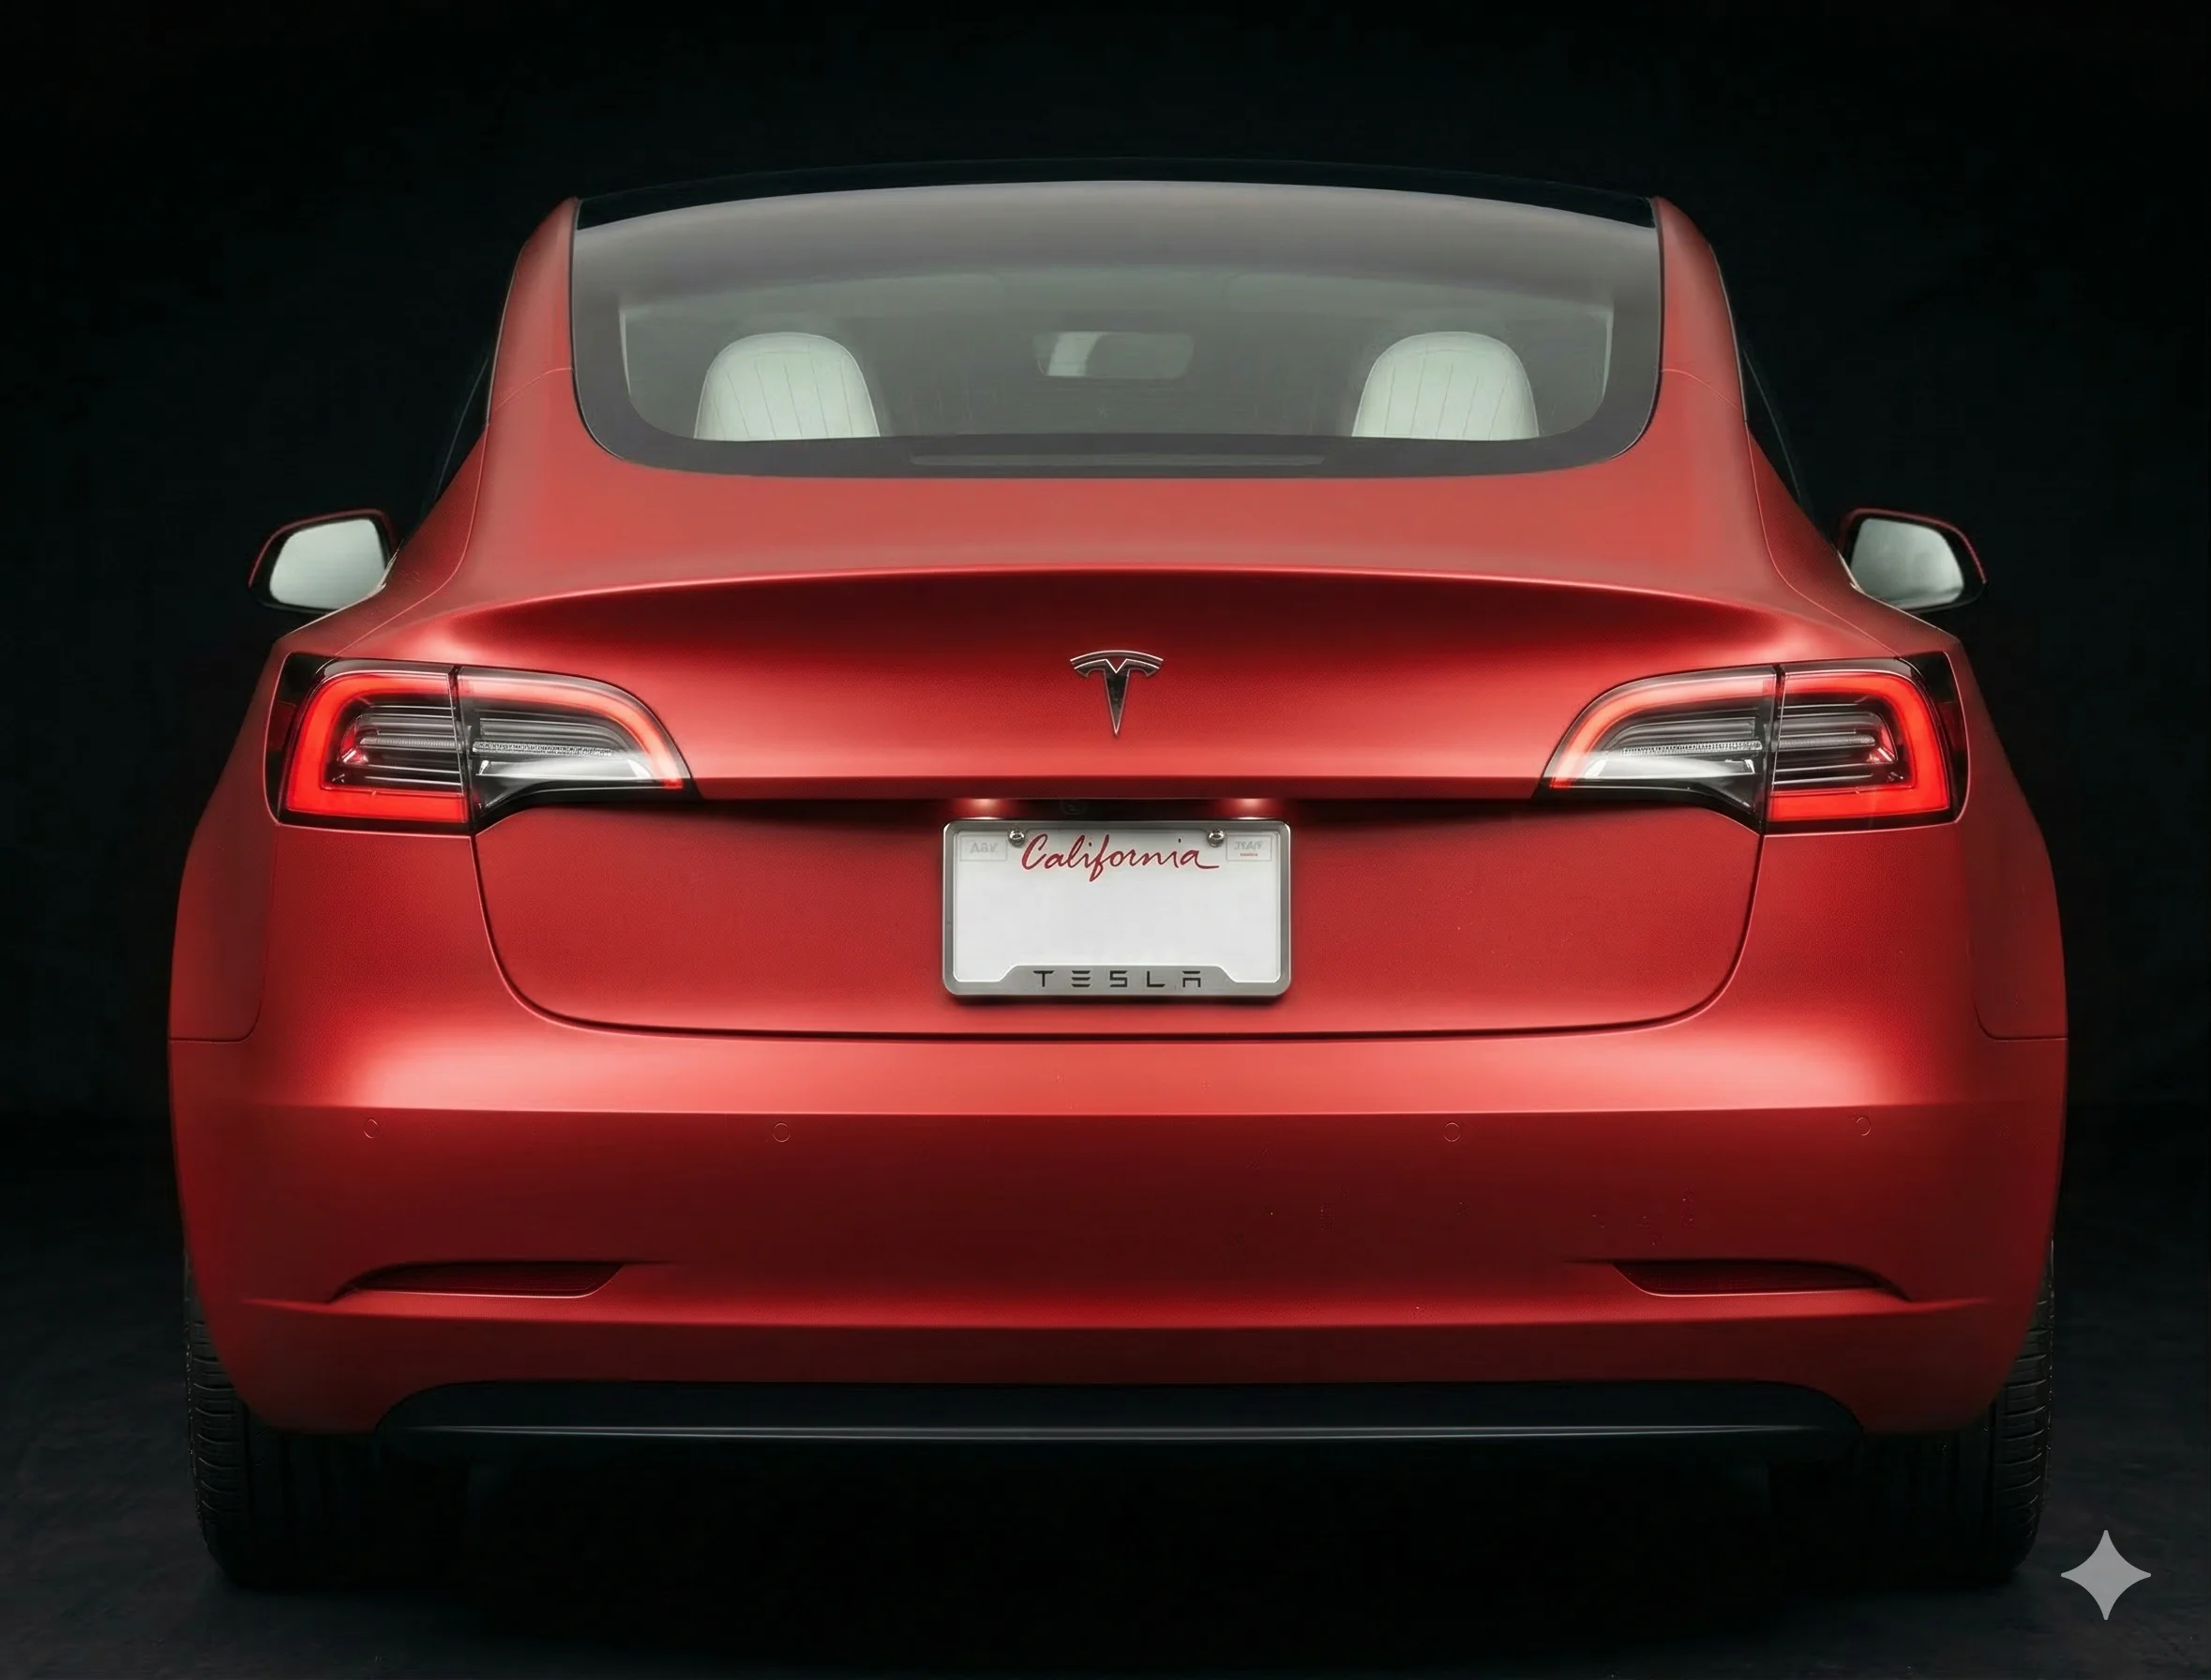
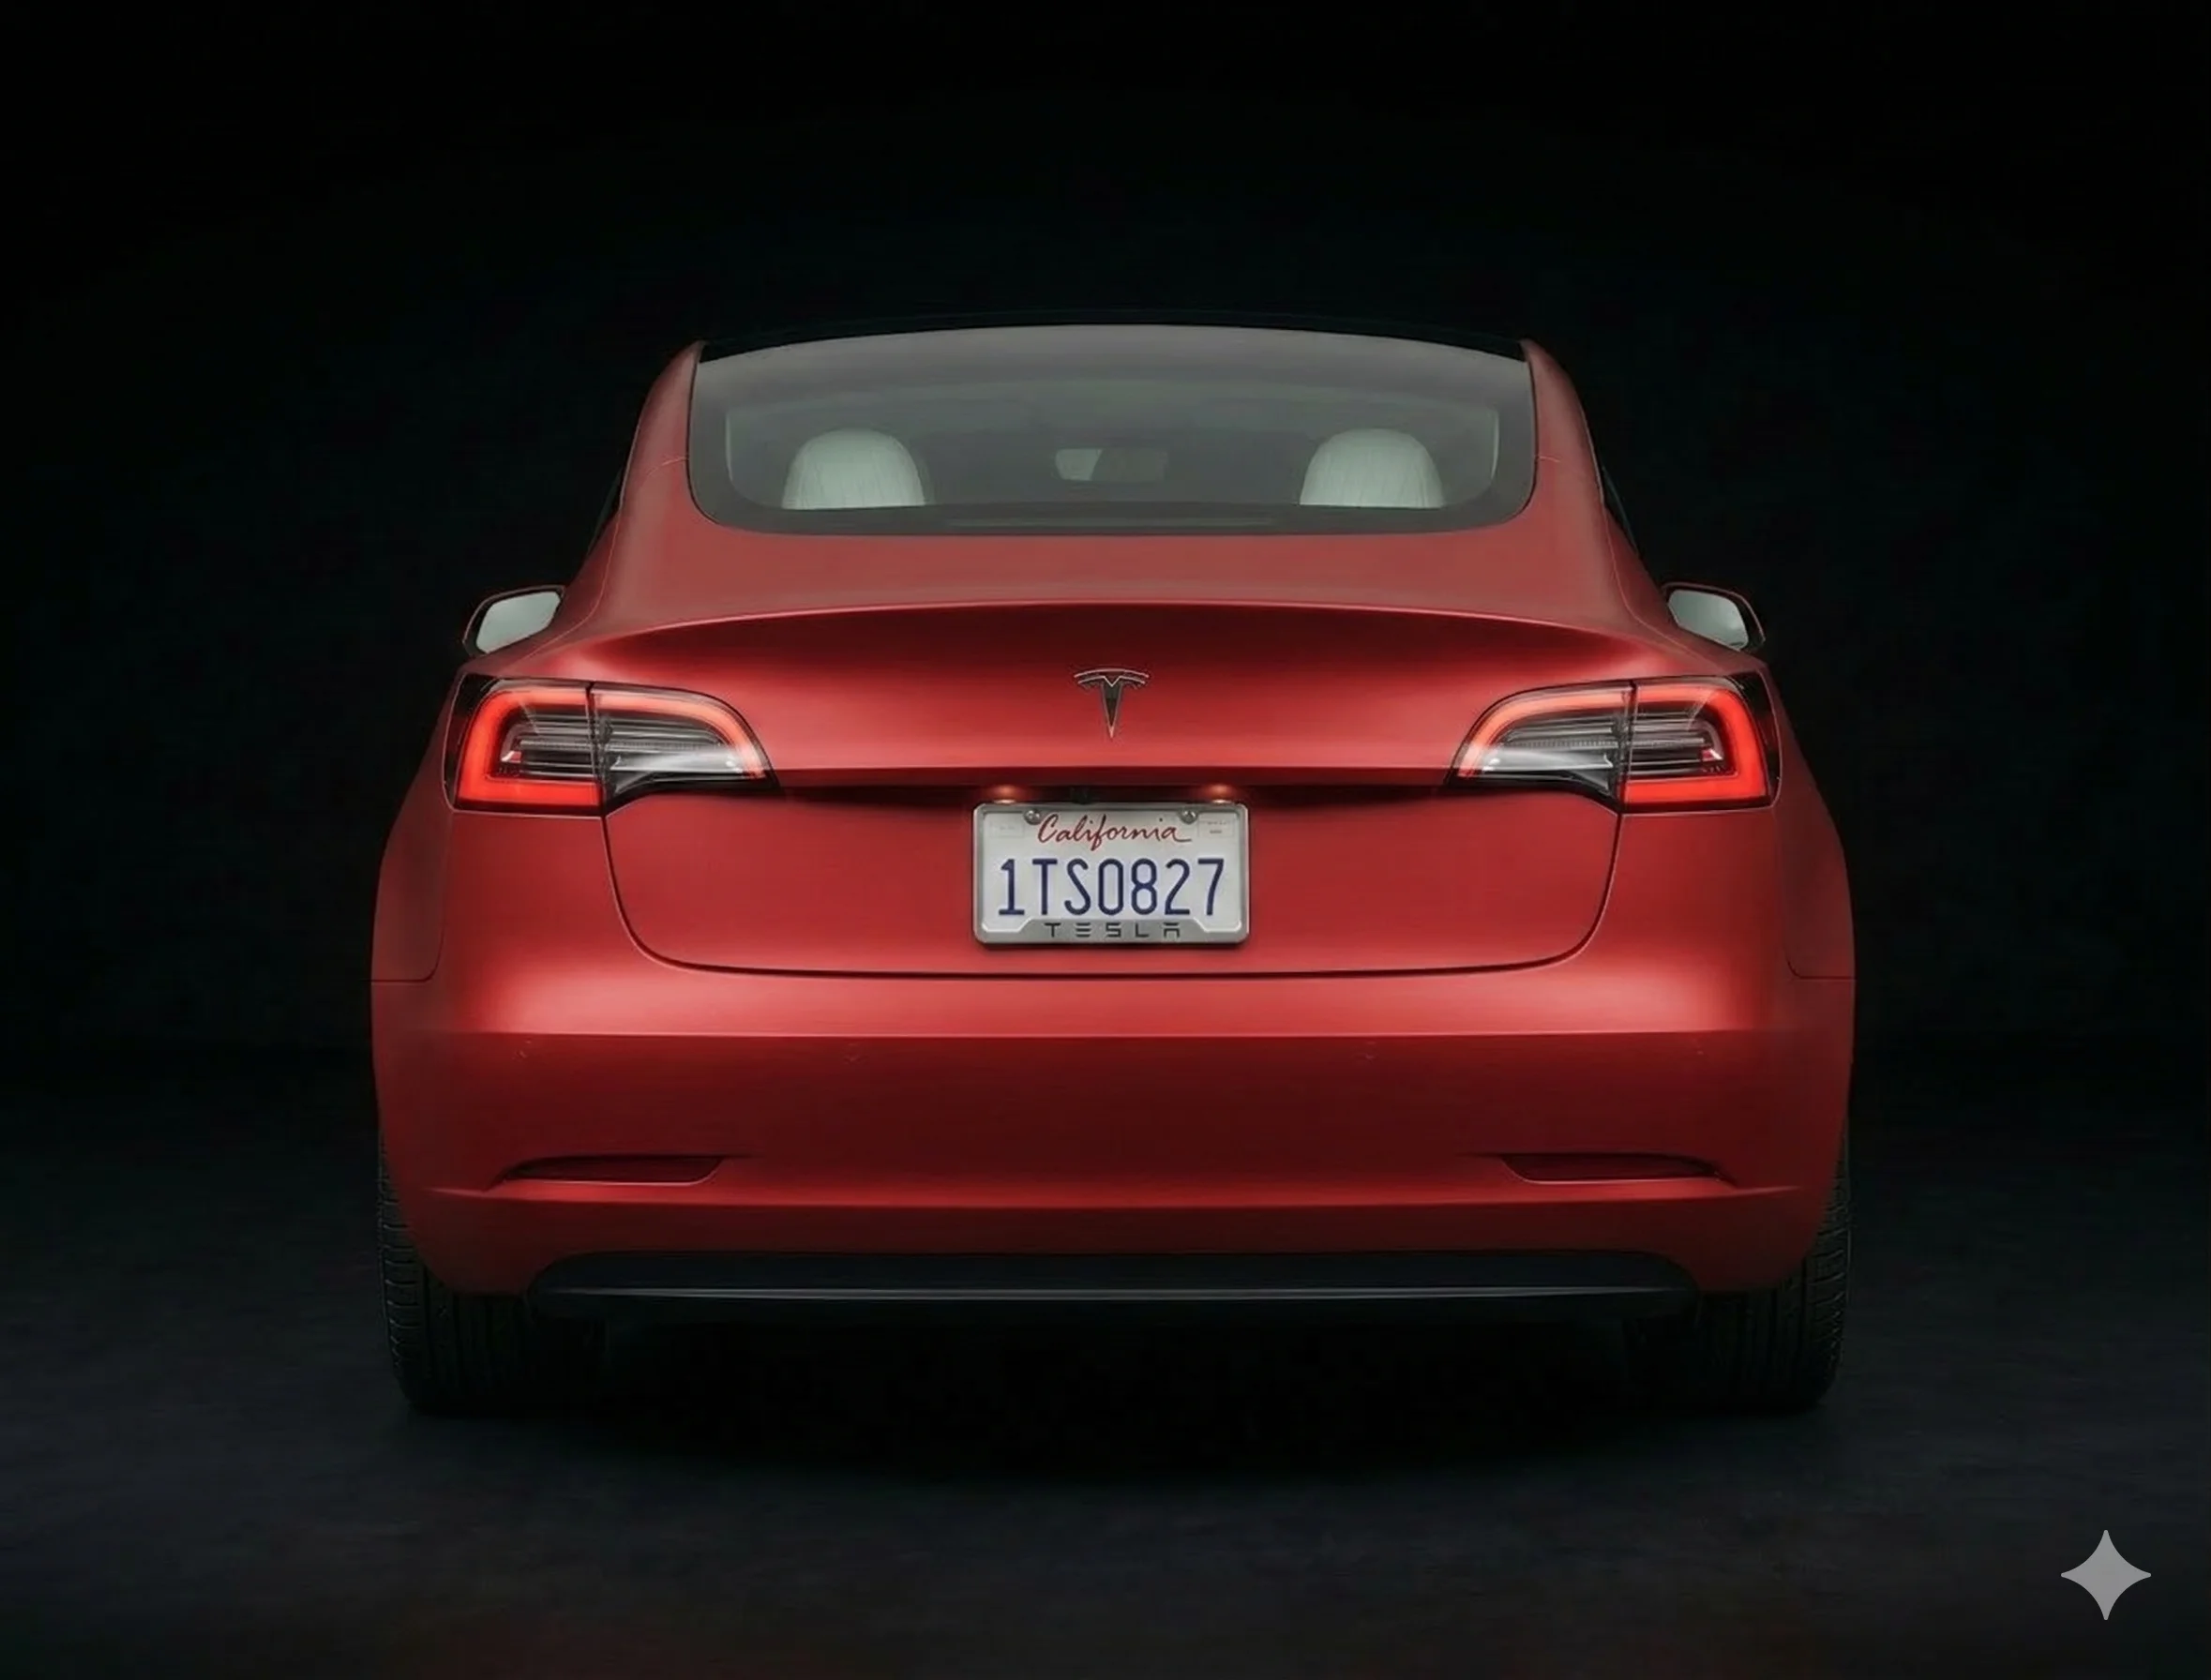
Add side profile, update rear view, and reorder matte red carousel
Added new right-facing side profile, swapped rear straight image,
and moved aerial shots to end of carousel.

diff --git a/index.html b/index.html
@@ -74,7 +74,7 @@ h1 { font-size: 22px; font-weight: 500; margin-bottom: 4px; }
 const COLORS = [
   {name:'Pearl white', hex:'#ffffff'},
   {name:'Matte black', hex:'#0a0a0a', images:['./images/matte-black-1.webp','./images/matte-black-2.webp','./images/matte-black-3.webp','./images/matte-black-4.webp','./images/matte-black-5.webp']},
-  {name:'Matte red', hex:'#c0201e', images:['./images/matte-red-1.webp','./images/matte-red-2.webp','./images/matte-red-3.webp','./images/matte-red-4.webp','./images/matte-red-5.webp','./images/matte-red-6.webp']},
+  {name:'Matte red', hex:'#c0201e', images:['./images/matte-red-2.webp','./images/matte-red-3.webp','./images/matte-red-7.webp','./images/matte-red-4.webp','./images/matte-red-6.webp','./images/matte-red-1.webp','./images/matte-red-5.webp']},
   {name:'Sunflower', hex:'#d4a017'},
   {name:'Ocean blue', hex:'#1a3a8a'},
   {name:'British green', hex:'#2a5a3a'},